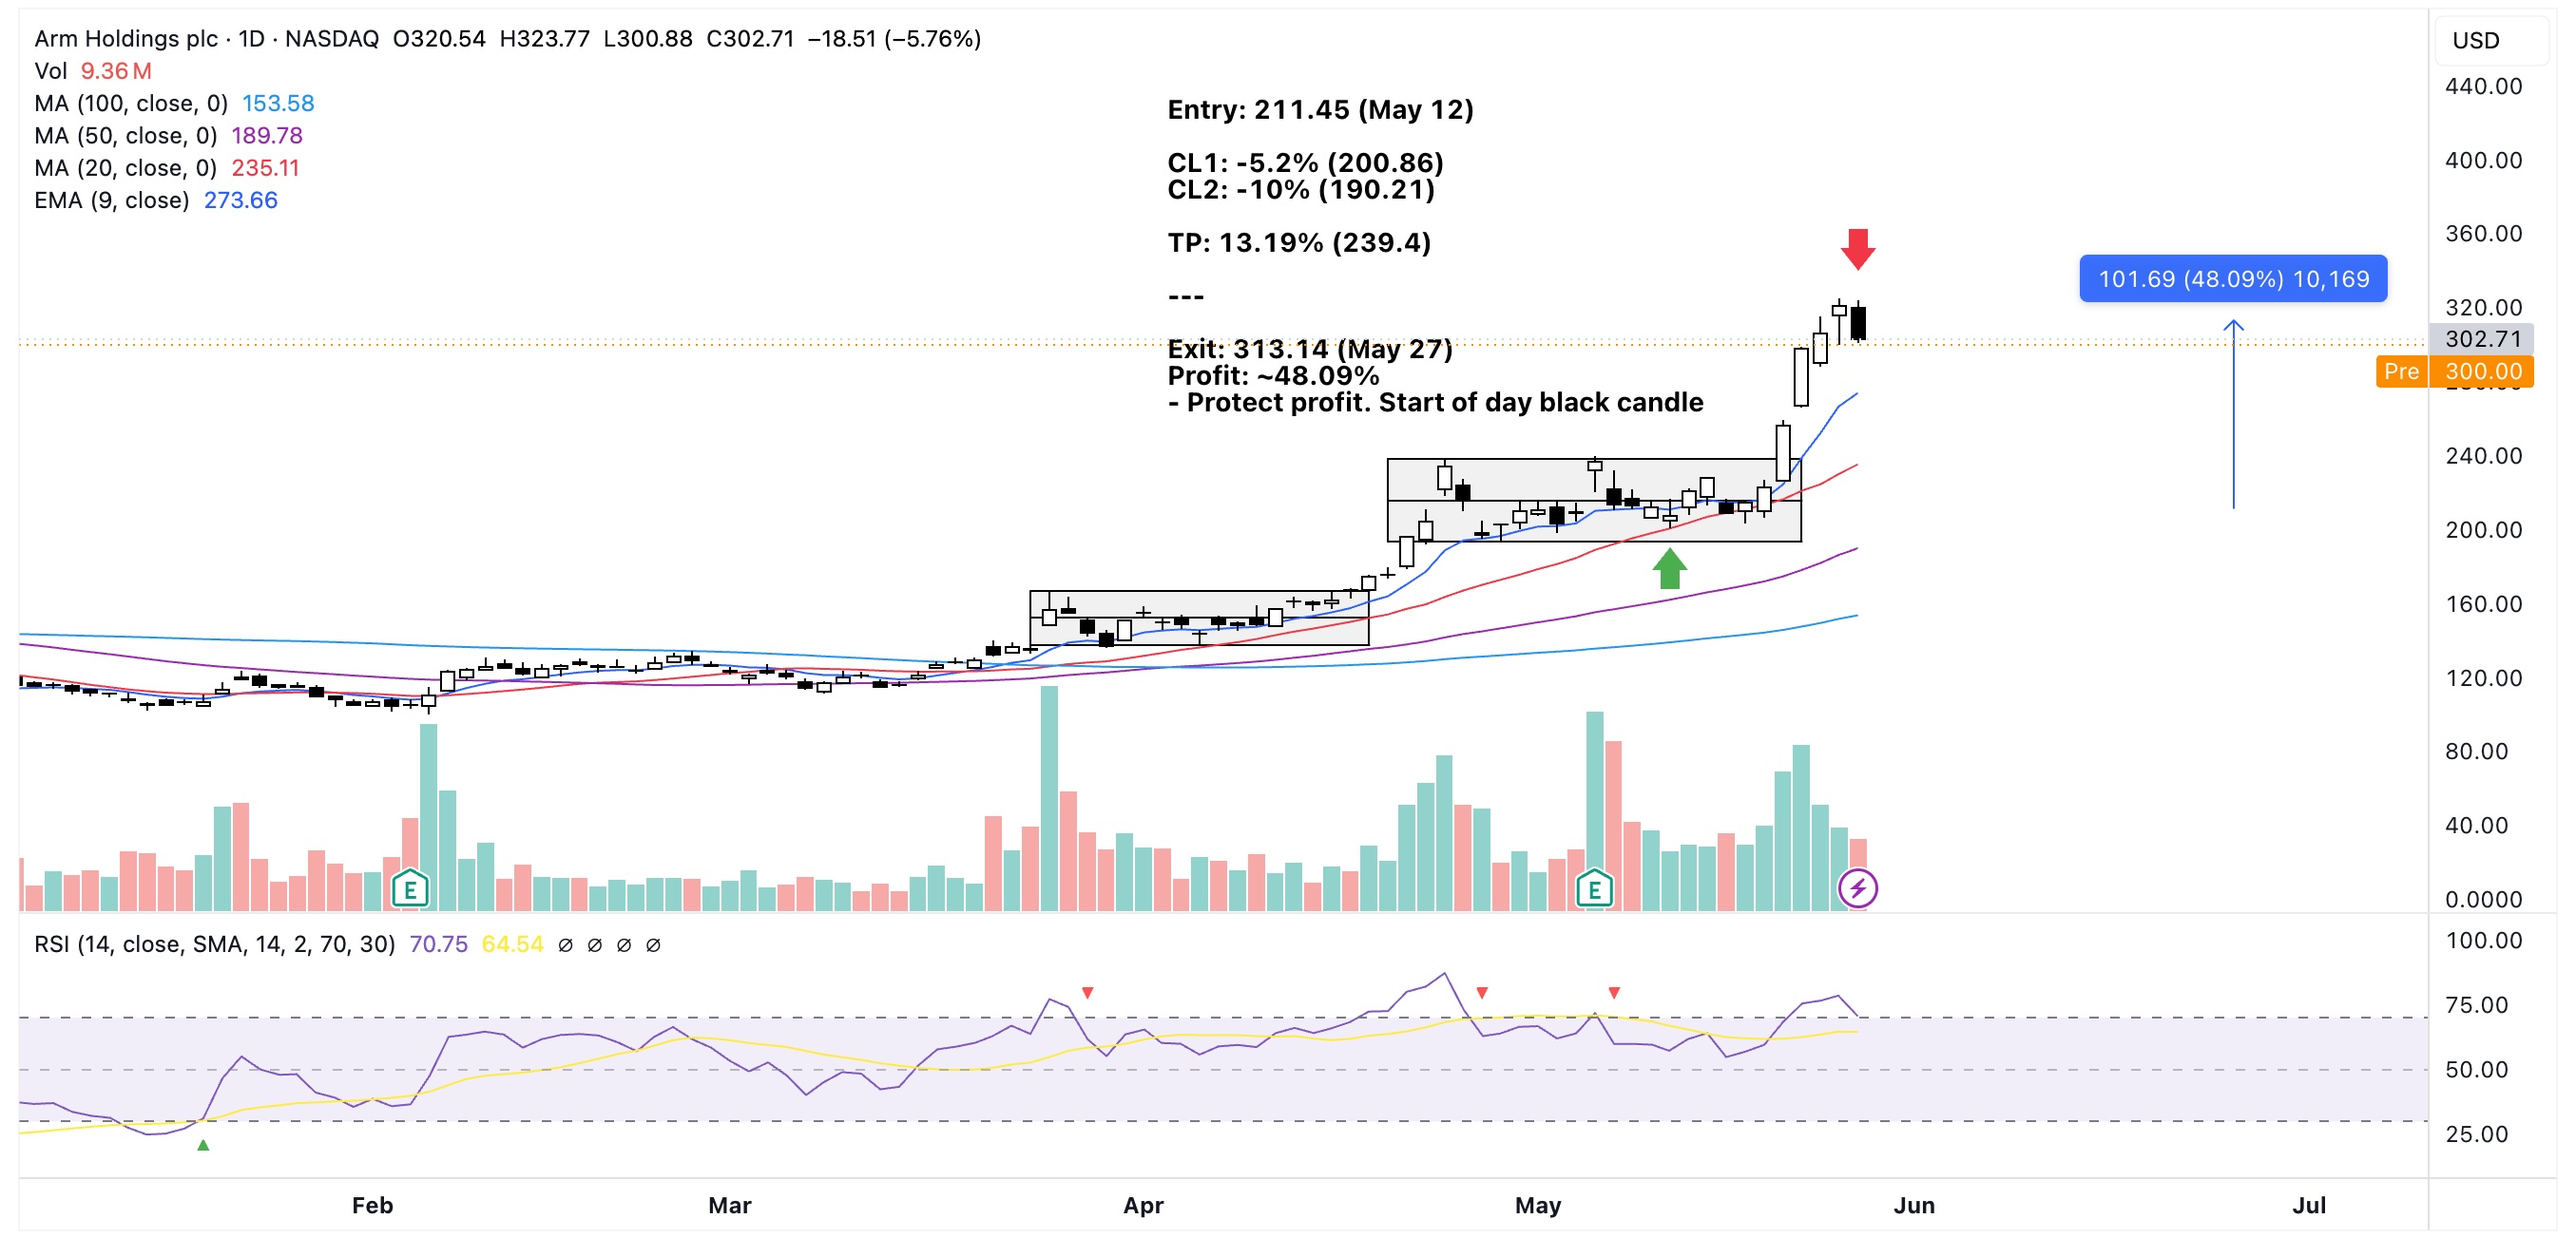
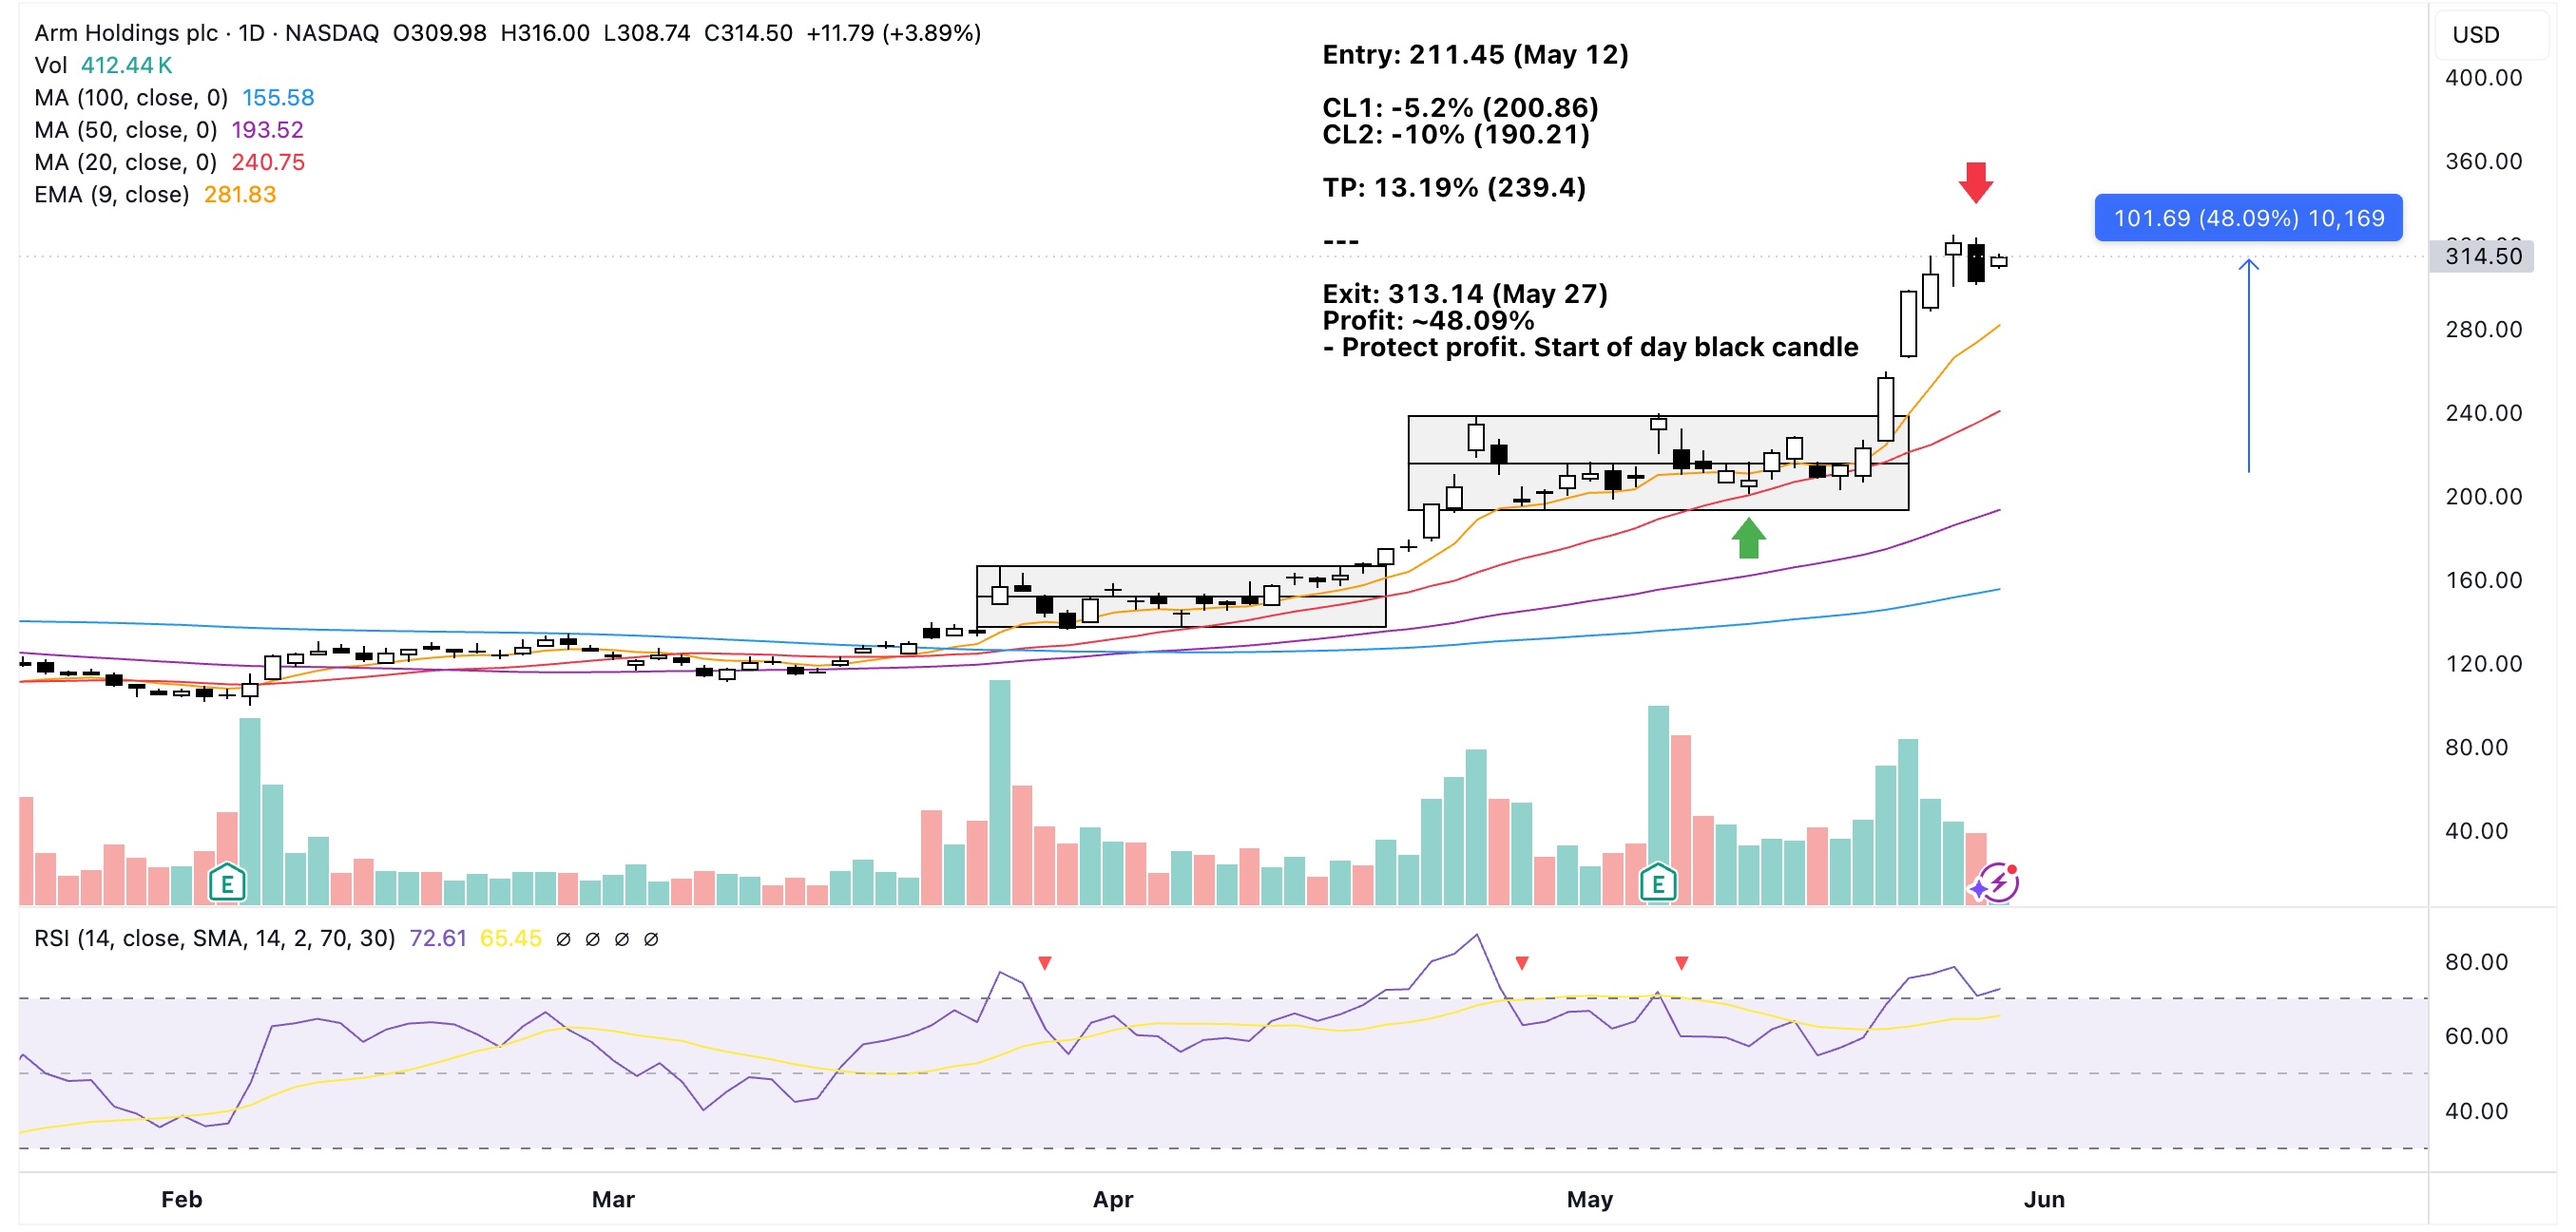
Added arm trade. Fixed first post category.

diff --git a/docs/posts/arm-swinging-from-the-bottom-to-a-breakout/arm-swinging-from-the-bottom-to-a-breakout.md b/docs/posts/arm-swinging-from-the-bottom-to-a-breakout/arm-swinging-from-the-bottom-to-a-breakout.md
@@ -12,10 +12,10 @@ metadata:
     market: US
     tranches: false
     symbol: "ARM"
-    entry_date: "2026-01-14"
+    entry_date: "2026-05-12"
     entry_price: 211.45
     entry_shares: 5.6746
-    exit_date: "2026-02-14"
+    exit_date: "2026-05-27"
     exit_price: 313.14
     exit_shares: 5.6746
     notes: "Swing"
@@ -32,10 +32,12 @@ metadata:
 
 ## Notes
 **May 21**
+
 - At EOD: strong box breakout overtaking the initial TP. Also with good volume. Decided not sell for now.
 - Monitor price movement the following day.
 
 **May 22**
+
 - Early trading hours shows strong demand, though it's end of week so watch out for price action more carefully.
 - Gap up opening.
 - Missed to check daily MA20 and 4H MA50 previously. But as of today both supports were followed.
@@ -44,10 +46,12 @@ metadata:
 - RSI looks good.
 
 **May 26**
+
 - First trading of the week.
 - Holding. RSI looks healthy.
 
 ## Thoughts on Exit
 **Actual exit price: 313.14 (May 27)**
+
 - Noticed price action in smaller intervals was not holding well. (Black candle in morning hours).
 - Secured profit. Watch out for a re-entry.

diff --git a/docs/posts/restarting-the-journey/restarting-the-journey.md b/docs/posts/restarting-the-journey/restarting-the-journey.md
@@ -5,7 +5,7 @@ authors:
   - luis
 categories:
   - Sentiments
-  - Loss
+  - Losses
 ---
 There are a handful of things I could do at home during this golden week, but among all of them, I am choosing have this trading journal setup for good.
 
